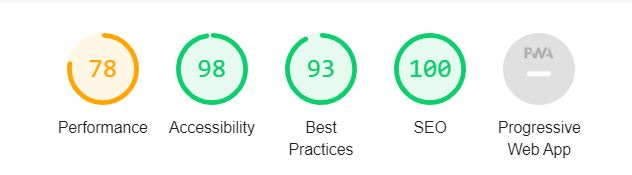
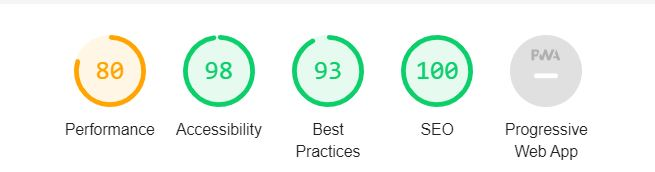
changed lighthouse image for mobile screens and added some more explanation to lighthouse section in README.md

diff --git a/README.md b/README.md
@@ -310,7 +310,7 @@ Comments:
 
 ### Performance with lighthouse
 
-To test the performance of the webpage Lighthouse in Google DevTools was used. 
+To test the performance of the webpage Lighthouse in Google DevTools was used. To get a higher score on lighthouse smaller images are used for small screens for the images that lighthouse suggested that the images wasn't properly sized. I have also compressed the images used on the website so that the file sizes became smaller. 
 
 The lighthouse scores are presented below. 
 
